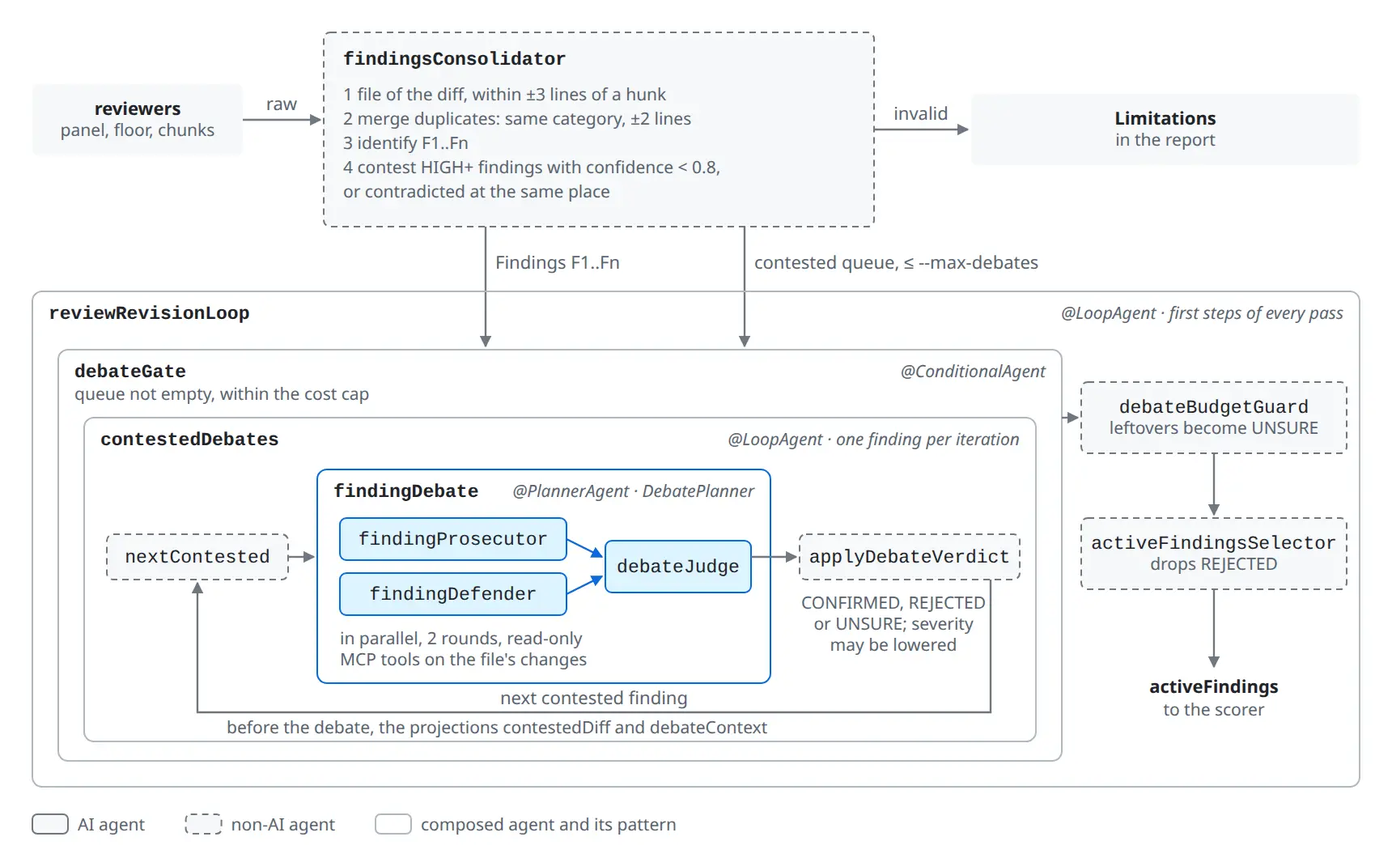
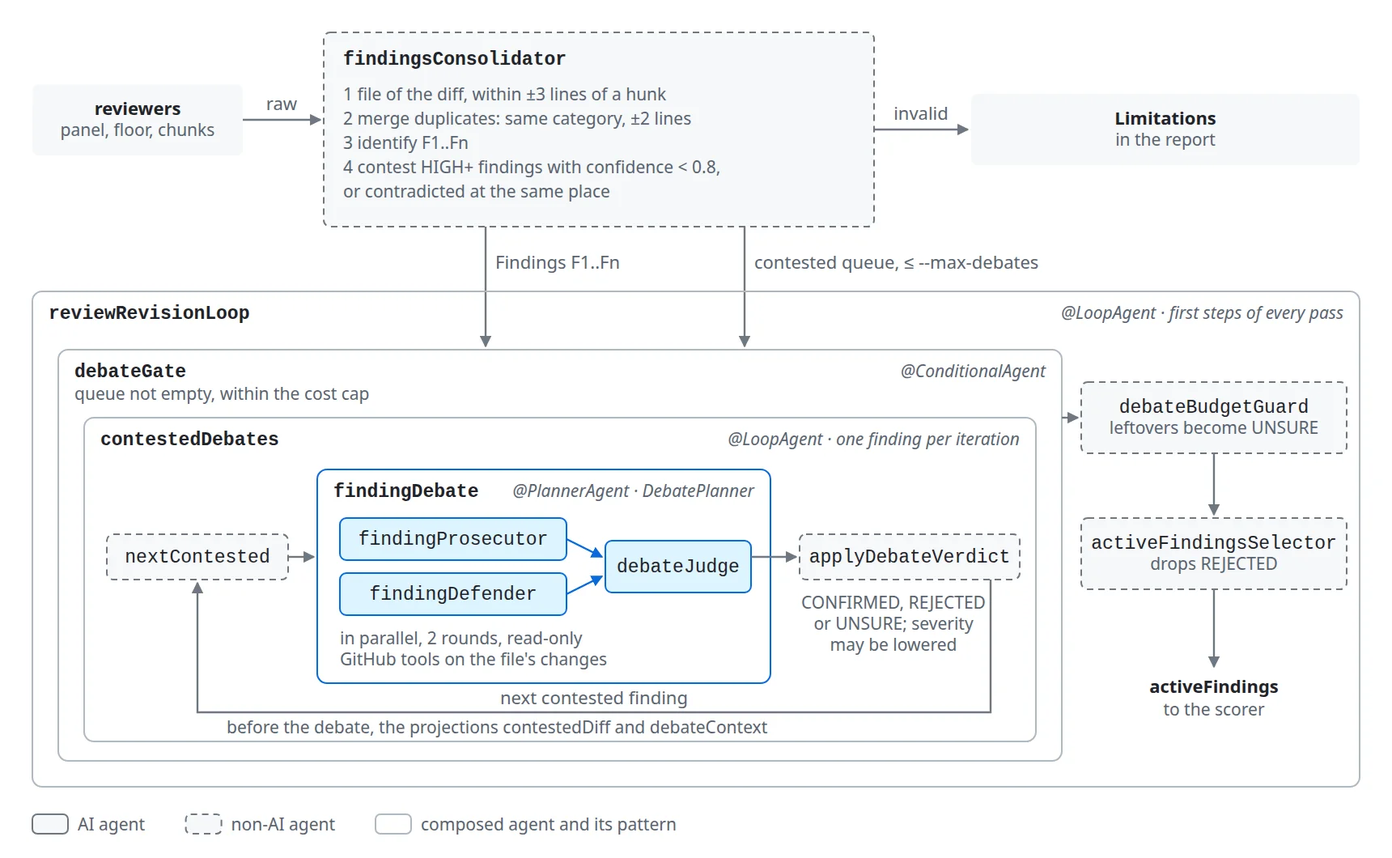
update article

diff --git a/docs/blog/agentic-pr-reviewer.md b/docs/blog/agentic-pr-reviewer.md
@@ -1,6 +1,6 @@
 ---
 layout: post
-title: 'A team of agents reviewing your pull requests: composing agentic patterns in a real Quarkus application'
+title: 'Debates, voting, and reflection loops: composing an agentic PR reviewer that costs less than a dollar'
 date: 2026-10-15T00:00:00Z
 tags:
   - ai
@@ -11,11 +11,17 @@ synopsis: 'How an agentic GitHub pull request reviewer, built with Quarkus LangC
 author: mariofusco
 ---
 
+We review thousands of pull requests a year on LangChain4j, and we wanted an agentic system to help. But a single pattern can't do it: routing, debating, voting and reflection all need to work together, within a cost budget, in a real Quarkus application. Here's how we built one that reviews a 2900-line pull request for $0.45.
+
 In previous articles we discussed why no single agentic pattern can cover all use cases, introducing a [generic `Planner` abstraction](https://quarkus.io/blog/agentic-ai-patterns/) to define custom orchestration strategies, and we showed how the [voting pattern and dynamic chat model selection](https://quarkus.io/blog/introducing-voting-pattern/) make an agentic system more reliable and more cost-efficient. Each of those articles focused on one pattern, applied to a deliberately small example. This time we want to see what happens when many of these patterns have to work together in a real application, with real costs, real failures, and a human who wants to have the last word.
 
-As maintainers of LangChain4j, we review a lot of pull requests, so the use case came naturally: an agentic reviewer of GitHub pull requests. Given a pull request, it produces a report saying what is good, what is wrong and what could be improved, with every problem anchored to a file and a line of the diff. It also gives a score from 0 to 10 for usefulness, correctness, conciseness, security, test coverage, maintainability, API and documentation, and PR hygiene, plus an overall score with its confidence, and a verdict: `APPROVE`, `COMMENT` or `REQUEST_CHANGES`. It only reads GitHub, with a read-only token, and never writes to it: its output is a Markdown report, the same report in JSON, and an HTML trace of the execution of its agents.
+Given a pull request, the reviewer produces a report saying what is good, what is wrong and what could be improved, with every problem anchored to a file and a line of the diff. It also gives a score from 0 to 10 for usefulness, correctness, conciseness, security, test coverage, maintainability, API and documentation, and PR hygiene, plus an overall score with its confidence, and a verdict: `APPROVE`, `COMMENT` or `REQUEST_CHANGES`.
 
-The reviewer is a Quarkus application built with the Quarkus LangChain4j extensions, version 1.15 on LangChain4j 1.21: `quarkus-langchain4j-agentic` for the agents, the Anthropic and OpenAI extensions for the chat models, `quarkus-langchain4j-typesafe` for the decision model, and `quarkus-github-api` to read GitHub. The agents are plain Java interfaces written with the declarative agentic API: the extension finds them at build time, validates how they are wired together and registers each of them as a CDI bean. The reviewer can be used both from the command line and from a local web interface. Let's see how it works.
+It only reads GitHub, with a read-only token, and never writes to it: its output is a Markdown report, the same report in JSON, and an HTML trace of the execution of its agents.
+
+The reviewer is a Quarkus application built with the Quarkus LangChain4j extensions, version 1.15 on LangChain4j 1.21: `quarkus-langchain4j-agentic` for the agents, the Anthropic and OpenAI extensions for the chat models, `quarkus-langchain4j-typesafe` for the decision model (where [TypeSafe](https://typesafe.ai) is the company behind the Jev decision models), and `quarkus-github-api` to read GitHub.
+
+The agents are plain Java interfaces written with the declarative agentic API: the extension finds them at build time, validates how they are wired together and registers each of them as a CDI bean. The reviewer can be used both from the command line and from a local web interface. Let's see how it works.
 
 ## A deterministic backbone, with model judgment inside
 
@@ -84,9 +90,11 @@ public class ReviewBundleBuilder {
 }
 ```
 
-## Reading GitHub
+## Two ways to read GitHub: structured fetch vs. tool-calling agents
 
-The reviewer reads GitHub through the [hub4j](https://github.com/hub4j/github-api) client that the [`quarkus-github-api`](https://docs.quarkiverse.io/quarkus-github-api/dev/) extension brings, with a read-only token, in two different ways. The first agent of the sequence reads the pull request with its diff, commits, CI checks, previous reviews and linked issue through a small `GitHubReads` interface: there is no point in asking an LLM what to fetch, when the answer is always the same. Conversely, the agents that need to explore the repository, like the context gatherer collecting the code around the change, get five read-only tools: the `@Tool` methods of a CDI bean, reading files, searching code, reading commits and issues, that the agent declares with `@ToolBox`:
+The reviewer reads GitHub through the [hub4j](https://github.com/hub4j/github-api) client that the [`quarkus-github-api`](https://docs.quarkiverse.io/quarkus-github-api/dev/) extension brings, with a read-only token, in two different ways. The first agent of the sequence reads the pull request with its diff, commits, CI checks, previous reviews and linked issue through a small `GitHubReads` interface: there is no point in asking an LLM what to fetch, when the answer is always the same.
+
+Conversely, the agents that need to explore the repository, like the context gatherer collecting the code around the change, get five read-only tools: the `@Tool` methods of a CDI bean, reading files, searching code, reading commits and issues, that the agent declares with `@ToolBox`:
 
 ```java
 public interface ContextGatherer {
@@ -101,7 +109,11 @@ public interface ContextGatherer {
 }
 ```
 
-Quarkus LangChain4j generates the executors of these tools at build time, and lets a wrapper bean see every tool call together with the invocation context of the agent call. The reviewer uses one to enforce a budget on the number of tool calls per invocation, so that a curious agent cannot spend the whole review budget browsing the repository. Read-only access is a matter of construction: the interface has no write method, and the bean exposes exactly these five read tools. Moreover, this agent runs only when the triage agent says that the diff alone is not enough to understand the change: it is the subagent of a `@ConditionalAgent` whose activation condition reads the `PrSummary` produced by the triage.
+Quarkus LangChain4j generates the executors of these tools at build time, and lets a wrapper bean see every tool call together with the invocation context of the agent call. The reviewer uses one to enforce a budget on the number of tool calls per invocation, so that a curious agent cannot spend the whole review budget browsing the repository.
+
+Read-only access is a matter of construction: the interface has no write method, and the bean exposes exactly these five read tools.
+
+Moreover, this agent runs only when the triage agent says that the diff alone is not enough to understand the change: it is the subagent of a `@ConditionalAgent` whose activation condition reads the `PrSummary` produced by the triage.
 
 ## Choosing the reviewers with a decision model
 
@@ -138,7 +150,9 @@ The decision model reads the arguments of the router agent and the descriptions 
 List<RawFinding> review(String reviewBundle);
 ```
 
-This made a big difference. We measured 25 routing decisions on five synthetic changes: with topic-style descriptions, a small decision model with 0.8 billion parameters running locally got 13 of them right; with the flags it got 22 at its best threshold, and a hosted decision model got all 25. Decision models are configured in `application.properties` like any other model, here with the `quarkus-langchain4j-typesafe` extension, both for the small model served locally and for the hosted one, and, like the chat models, they become beans qualified by their name, which is how the planner supplier above picks the local or the hosted one at each review:
+This made a big difference. We measured 25 routing decisions on five synthetic changes: with topic-style descriptions, a small decision model with 0.8 billion parameters running locally got 13 of them right; with the flags it got 22 at its best threshold, and a hosted decision model got all 25.
+
+Decision models are configured in `application.properties` like any other model, here with the `quarkus-langchain4j-typesafe` extension, both for the small model served locally and for the hosted one, and, like the chat models, they become beans qualified by their name, which is how the planner supplier above picks the local or the hosted one at each review:
 
 ```properties
 quarkus.langchain4j.local.decision-model.provider=typesafe
@@ -176,7 +190,9 @@ Finally, very large pull requests don't fit in the token budget of the reviewers
 
 ## Putting findings on trial: the debate pattern
 
-The reviewers return raw findings, each one with a category, a severity, a confidence, a file and a line. LLMs sometimes see problems that aren't there, so before reaching the report, the findings are validated by a non-AI agent: a finding must point at a file of the diff, at a line near a changed hunk, otherwise it is discarded. This removes hallucinated locations, and also anything smuggled into the prompts through the text of the pull request. Then duplicates reported by different reviewers are merged, and each finding gets an id, from F1 to Fn.
+The reviewers return raw findings, each one with a category, a severity, a confidence, a file and a line.
+
+LLMs sometimes see problems that aren't there, so before reaching the report, the findings are validated by a non-AI agent: a finding must point at a file of the diff, at a line near a changed hunk, otherwise it is discarded. This removes hallucinated locations, and also anything smuggled into the prompts through the text of the pull request. Then duplicates reported by different reviewers are merged, and each finding gets an id, from F1 to Fn.
 
 Some findings deserve a second look before being accepted: a high-severity finding reported with low confidence, or contradicted by another reviewer rating the same place as minor, is too important to be either trusted or ignored. These findings are put on trial with the [debate pattern](https://docs.langchain4j.dev/tutorials/agents/#debate-agentic-pattern): a prosecutor argues that the problem is real, a defender argues that it is not, both reading the changes of the file in question with read-only tools, and a judge decides.
 
@@ -197,7 +213,9 @@ public interface FindingDebate {
 }
 ```
 
-The prosecutor and the defender argue in parallel for up to two rounds, each one reading the arguments of the other in the transcript of the debate, and the debate stops early when both end with the same word. Then the judge, always last, confirms the finding, rejects it, or lowers its severity. A finding that the debate could not settle stays in the report, but it no longer drives the verdict. The contested findings are debated one at a time, inside a `@LoopAgent` that takes the next one at each iteration, and stops when there are no more contested findings or when the cost cap is reached.
+The prosecutor and the defender argue in parallel for up to two rounds, each one reading the arguments of the other in the transcript of the debate, and the debate stops early when both end with the same word. Then the judge, always last, confirms the finding, rejects it, or lowers its severity. A finding that the debate could not settle stays in the report, but it no longer drives the verdict.
+
+The contested findings are debated one at a time, inside a `@LoopAgent` that takes the next one at each iteration, and stops when there are no more contested findings or when the cost cap is reached.
 
 ![Findings: the validation of the findings and the debates of the contested ones](/assets/images/posts/agentic/pr-reviewer-debates.webp)
 
@@ -205,7 +223,9 @@ The prosecutor and the defender argue in parallel for up to two rounds, each one
 
 ## Scoring: voting only when it matters
 
-A scorer agent reads the surviving findings and proposes a score card, with a score and a rationale for each metric, a verdict and its reasoning. A single scorer is usually enough, but when its card is borderline, we would rather have more opinions: this is exactly the use case of the voting pattern discussed in the [previous article](https://quarkus.io/blog/introducing-voting-pattern/). Here three scorers with different perspectives, neutral, skeptical and lenient, vote in parallel, and their score cards are aggregated by averaging the scores and taking the majority verdict:
+A scorer agent reads the surviving findings and proposes a score card, with a score and a rationale for each metric, a verdict and its reasoning.
+
+A single scorer is usually enough, but when its card is borderline, we would rather have more opinions: this is exactly the use case of the voting pattern discussed in the [previous article](https://quarkus.io/blog/introducing-voting-pattern/). Here three scorers with different perspectives, neutral, skeptical and lenient, vote in parallel, and their score cards are aggregated by averaging the scores and taking the majority verdict:
 
 ```java
 public interface ScoreVoting {
@@ -244,7 +264,9 @@ The models propose, but a non-AI calibrator has the last word, and it can only m
 
 ## Writing the report: a reflection loop
 
-The report writer produces only the prose: the summary, what is good and what could be improved. The findings, the scores and the verdict are rendered from the data by a non-AI assembler, so that the writer can neither invent a finding nor lose one. A critic then rates the rendered report, and the writer rewrites it until the critic is satisfied, in a classic reflection loop:
+The report writer produces only the prose: the summary, what is good and what could be improved. The findings, the scores and the verdict are rendered from the data by a non-AI assembler, so that the writer can neither invent a finding nor lose one.
+
+A critic then rates the rendered report, and the writer rewrites it until the critic is satisfied, in a classic reflection loop:
 
 ```java
 public interface ReportQualityLoop {
@@ -310,7 +332,9 @@ public ApprovalDecision askApproval(ReviewReport report, List<Finding> findings,
 
 ## The right model for each agent, within a budget
 
-Not every agent needs the most capable model. The reviewer uses three tiers: a small model for the triage, the checklists and the critic, a medium model for judging code, scoring and writing, and a large model only when there is evidence that it is needed: a high-risk or large change, security-sensitive code, a critical contested finding, a report that the critic didn't like, or an explicit request for a deep review. The tiers are named models, a feature of Quarkus LangChain4j: each `quarkus.langchain4j.<name>` block in `application.properties` becomes a `ChatModel` bean qualified with `@ModelName`, here one per provider and tier, Anthropic and OpenAI:
+Not every agent needs the most capable model. The reviewer uses three tiers: a small model for the triage, the checklists and the critic, a medium model for judging code, scoring and writing, and a large model only when there is evidence that it is needed: a high-risk or large change, security-sensitive code, a critical contested finding, a report that the critic didn't like, or an explicit request for a deep review.
+
+The tiers are named models, a feature of Quarkus LangChain4j: each `quarkus.langchain4j.<name>` block in `application.properties` becomes a `ChatModel` bean qualified with `@ModelName`, here one per provider and tier, Anthropic and OpenAI:
 
 ```properties
 quarkus.langchain4j.openai-standard.chat-model.provider=openai
@@ -346,7 +370,7 @@ public interface CorrectnessReviewer {
 
 A `ChatModelListener` bean, which the extension attaches to every configured model, prices every call as it happens, including each round trip of the tool-using agents, and a soft cost cap, 2 USD by default, governs all the optional work: once it is reached, voting, debates and escalations are skipped. The review always completes, and its report lists what was skipped.
 
-## When things go wrong
+## Why transient failures don't kill the review
 
 Model calls fail: rate limits, timeouts, malformed answers, an exhausted account. Since the `AgenticScope` is shared by the whole tree of agents, a single `@ErrorHandler` on the root, a static method whose signature the extension checks at build time like every supplier and condition, sees the failures of all of them:
 
@@ -357,7 +381,9 @@ static ErrorRecoveryResult onError(ErrorContext context) {
 }
 ```
 
-It retries a transient failure once. When a reviewer, a voter, a debater or the router keeps failing, it replaces its output with a neutral fallback, like a reviewer with no findings, and the report discloses it among its limitations. On the other hand, it stops the run at once on an account problem, like an invalid key or no credit left, where degrading every agent one after another would be pointless, and when the failing agent is one without which there can be no review, like the fetcher or the scorer.
+It retries a transient failure once. When a reviewer, a voter, a debater or the router keeps failing, it replaces its output with a neutral fallback, like a reviewer with no findings, and the report discloses it among its limitations.
+
+On the other hand, it stops the run at once on an account problem, like an invalid key or no credit left, where degrading every agent one after another would be pointless, and when the failing agent is one without which there can be no review, like the fetcher or the scorer.
 
 ## Two front ends on the same core
 
@@ -373,9 +399,11 @@ pr-reviewer serve
 
 The application is packaged as an uber-jar and installed as a JBang alias, so that `pr-reviewer` is just another command on the `PATH`.
 
-The `serve` subcommand starts a local web interface built with Qute templates and htmx, with no JavaScript build at all: a form with the same options of the command line, the past reports, and a page following each review live. An `AgentListener` bean, which the extension attaches to every agent, publishes the start and the end of each agent, with its model, its duration and the running cost of the review, and the page receives them as server-sent events. In interactive mode, the same page shows the clarification questions first, and then the report with a checkbox to contest and one to drop each finding.
+The `serve` subcommand starts a local web interface built with Qute templates and htmx, with no JavaScript build at all: a form with the same options of the command line, the past reports, and a page following each review live.
 
-## Seeing it at work
+An `AgentListener` bean, which the extension attaches to every agent, publishes the start and the end of each agent, with its model, its duration and the running cost of the review, and the page receives them as server-sent events. In interactive mode, the same page shows the clarification questions first, and then the report with a checkbox to contest and one to drop each finding.
+
+## What happens when you review a 2900-line PR for $0.45
 
 Let's try the reviewer on a real pull request, [langchain4j#6731](https://github.com/langchain4j/langchain4j/pull/6731), one of ours, which allows any agent or agentic pattern to declare its own activation condition, so that a single agent no longer needs to be wrapped in a `@ConditionalAgent`, as the context gatherer above is. An extract of the report produced by the reviewer for this pull request follows.
 
@@ -389,22 +417,42 @@ The same report also scores the pull request, with a score from 0 to 10 for each
 
 *The scores produced by the reviewers*
 
-It is a large change, about 2900 added and 300 deleted lines across 56 files, and we reviewed it using the OpenAI models and the small local decision model for the routing. Making `PrReviewSystem` extend `MonitoredAgent` allows us to save the trace of every review in an HTML page, which shows the topology of the system and the history of its executions:
+It is a large change, about 2900 added and 300 deleted lines across 56 files, and we reviewed it using the OpenAI models and the small local decision model for the routing.
+
+Making `PrReviewSystem` extend `MonitoredAgent` allows us to save the trace of every review in an HTML page, which shows the topology of the system and the history of its executions:
 
 ![The execution of the review of langchain4j#6731](/assets/images/posts/agentic/pr-reviewer-execution.webp)
 
 *The execution of the review of langchain4j#6731*
 
-This execution shows almost all the patterns we discussed at work. The triage classified the change as a large, high-risk feature that could be understood from the diff alone, so the context gatherer was skipped. The decision router selected all five reviewers, which ran in parallel, leaving nothing for the coverage floor to add; the correctness reviewer, escalated to the large model by the risk and the size of the change, took 3 minutes and 48 seconds, two thirds of the whole review, to report no finding at all. Seven files didn't fit in the token budget of the reviewers, five test classes, the documentation and the Revapi configuration, so the large diff gate handed them, as a single chunk, to a chunk reviewer.
+### The review: routing, findings and a debate
 
-The reviewers returned seven findings, all pointing at a valid location of the diff. One of them was contested: the documentation and API reviewer, running on the small model, reported as high severity, but with a confidence of 0.65, that adding a `skipped` component to the `AgentInvocation` record breaks binary compatibility. The prosecutor and the defender argued for the full two rounds, the defender reading the record and searching its usages in the repository, and the judge rejected the finding: the five-argument constructor is kept as an explicit overload, with the same JVM descriptor as the former canonical constructor, so the existing compiled callers still link. Meanwhile, a real compatibility problem survived among the medium-severity findings, and it came from the chunk reviewer: the Revapi configuration suppresses the warning about the abstract `activationCondition` methods added to the public `AgenticService` and `SupervisorAgentService` interfaces, which breaks the source compatibility of anybody implementing them, while the description of the pull request claims that there is no breaking change.
+This execution shows almost all the patterns we discussed at work. The triage classified the change as a large, high-risk feature that could be understood from the diff alone, so the context gatherer was skipped.
 
-The first score card was borderline on two counts: an overall score of 6.8, within half a point of the approval threshold, and a request for changes without any high-severity finding left to back it. The three scorers then voted in parallel, all three for `REQUEST_CHANGES`, and the average of their cards was again 6.8, with a confidence of 0.5; the calibrator had nothing to correct. Finally, the report went through all the three rounds of the reflection loop: the critic rated the first draft 0.68, so the writer, escalated to the large model, rewrote it twice, but the critic rated the second draft 0.68 again and the third 0.28, and the loop stopped at its last iteration. Here the critic, on the small model, was the weak link of the review: it listed the findings themselves as the issues to fix, as if it had been asked to review the pull request rather than the report about it. The whole review took 5 minutes and 49 seconds and cost $0.45.
+The decision router selected all five reviewers, which ran in parallel, leaving nothing for the coverage floor to add; the correctness reviewer, escalated to the large model by the risk and the size of the change, took 3 minutes and 48 seconds, two thirds of the whole review, to report no finding at all.
+
+Seven files didn't fit in the token budget of the reviewers, five test classes, the documentation and the Revapi configuration, so the large diff gate handed them, as a single chunk, to a chunk reviewer.
+
+The reviewers returned seven findings, all pointing at a valid location of the diff. One of them was contested: the documentation and API reviewer, running on the small model, reported as high severity, but with a confidence of 0.65, that adding a `skipped` component to the `AgentInvocation` record breaks binary compatibility. The prosecutor and the defender argued for the full two rounds, the defender reading the record and searching its usages in the repository, and the judge rejected the finding: the five-argument constructor is kept as an explicit overload, with the same JVM descriptor as the former canonical constructor, so the existing compiled callers still link.
+
+Meanwhile, a real compatibility problem survived among the medium-severity findings, and it came from the chunk reviewer: the Revapi configuration suppresses the warning about the abstract `activationCondition` methods added to the public `AgenticService` and `SupervisorAgentService` interfaces, which breaks the source compatibility of anybody implementing them, while the description of the pull request claims that there is no breaking change.
+
+### Scoring and reporting: voting, reflection and the cost
+
+The first score card was borderline on two counts: an overall score of 6.8, within half a point of the approval threshold, and a request for changes without any high-severity finding left to back it. The three scorers then voted in parallel, all three for `REQUEST_CHANGES`, and the average of their cards was again 6.8, with a confidence of 0.5; the calibrator had nothing to correct.
+
+Finally, the report went through all the three rounds of the reflection loop: the critic rated the first draft 0.68, so the writer, escalated to the large model, rewrote it twice, but the critic rated the second draft 0.68 again and the third 0.28, and the loop stopped at its last iteration.
+
+Here the critic, on the small model, was the weak link of the review: it listed the findings themselves as the issues to fix, as if it had been asked to review the pull request rather than the report about it.
+
+The whole review took 5 minutes and 49 seconds and cost $0.45.
 
 ## Conclusion
 
-A real application needs more than one agentic pattern, and the reviewer uses many of those made available by LangChain4j: a sequence as its backbone, conditional agents as gates, a decision router choosing the reviewers, a parallel mapper for very large pull requests, debates for the doubtful findings, voting for the borderline scores, reflection loops for the report, and a human in the loop for the final decision. What made them work together was not using any of them everywhere, but each one only where it pays off, while plain code does everything that doesn't need judgment: fetching, validating, calibrating, rendering. The same principle drives the choice of the models, with a small one by default, a larger one only when there is evidence that it is needed, and a decision model, instead of an LLM, for routing.
+A real application needs more than one agentic pattern, and the reviewer uses many of those made available by LangChain4j: a sequence as its backbone, conditional agents as gates, a decision router choosing the reviewers, a parallel mapper for very large pull requests, debates for the doubtful findings, voting for the borderline scores, reflection loops for the report, and a human in the loop for the final decision.
 
-Quarkus LangChain4j is what turns these patterns into an application. The agent interfaces are detected and validated at build time and become beans, so the whole system is injected like any other service; chat models and decision models are named configurations, and what the agents choose from at run time is the set of beans the extension builds from them; the tools of the agents are the methods of a bean, with their executors generated at build time; the listener that prices every call and the one that feeds the web page are beans the extension attaches to every model and every agent; and the same core serves a command line and a web interface. The complete source code of the reviewer is available [here](https://github.com/mariofusco/langchain4j-pr-reviewer).
+What made them work together was not using any of them everywhere, but each one only where it pays off, while plain code does everything that doesn't need judgment: fetching, validating, calibrating, rendering. The same principle drives the choice of the models, with a small one by default, a larger one only when there is evidence that it is needed, and a decision model, instead of an LLM, for routing.
 
-In the near future we plan to keep growing the set of agentic patterns available out-of-the-box, in LangChain4j and in its Quarkus extension, using real applications like this one to find out what is still missing. Stay tuned!
+Quarkus LangChain4j is what turns these patterns into an application. The agent interfaces are detected and validated at build time and become beans, so the whole system is injected like any other service; chat models and decision models are named configurations, and what the agents choose from at run time is the set of beans the extension builds from them; the tools of the agents are the methods of a bean, with their executors generated at build time; the listener that prices every call and the one that feeds the web page are beans the extension attaches to every model and every agent; and the same core serves a command line and a web interface.
+
+In the near future we plan to keep growing the set of agentic patterns available out-of-the-box, in LangChain4j and in its Quarkus extension, using real applications like this one to find out what is still missing. The reviewer is open source: clone [the repository](https://github.com/mariofusco/langchain4j-pr-reviewer), try it on one of your own pull requests, and tell us what it finds, and what it gets wrong.
